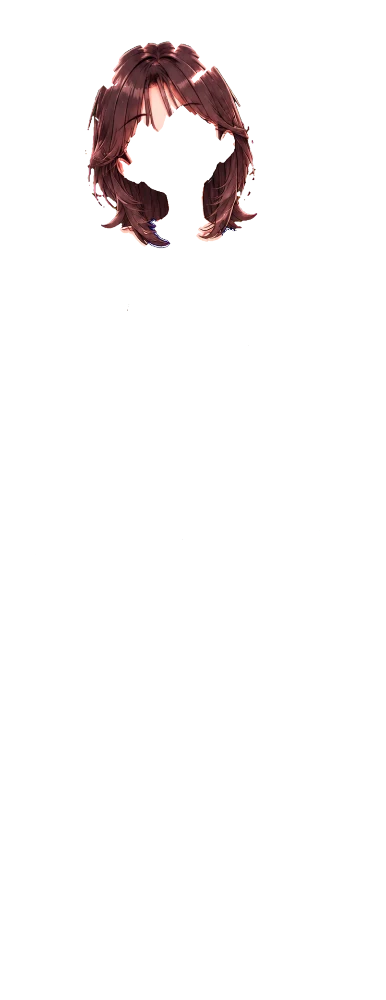
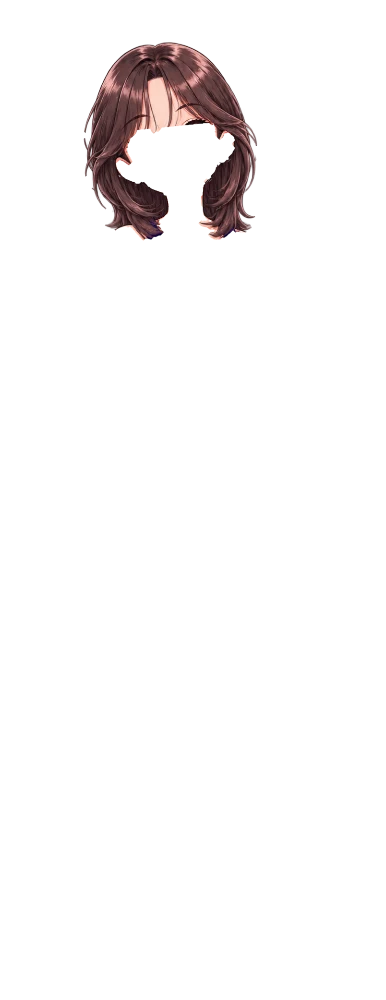
v94: 11 款髮型全部請 GPT 直接畫透明背景重做（不再去綠底，髮絲邊不缺角）；招牌黑長直髮色對齊劇照、長度到腰；麻花辮缺縫修好；穿帽 T 時胸前不再有頭髮碎片

Changed region(s): [[0.2176, 0.031, 0.6839, 0.248]]

diff --git a/sw.js b/sw.js
@@ -1,5 +1,5 @@
 // 離線快取：先用網路，失敗時用快取（內容更新時改版本號）
-const CACHE = 'idolstudy-v93';
+const CACHE = 'idolstudy-v94';
 const FILES = ['./', './index.html', './css/style.css', './css/talk.css', './css/rewards.css', './css/lobby-pastel.css', './css/pastel-pages.css', './css/names.css', './css/v2.css', './css/drama.css', './js/names.js', './js/rewards.js', './js/app.js', './js/data.js', './js/store.js', './manifest.webmanifest', './icons/icon-192.png', './js/course.js', './js/util.js', './js/talk.js', './js/sound.js', './js/drama.js', './js/games.js', './js/course2.js', './js/course3.js', './js/themes.js', './js/extras.js', './js/bank.js', './js/examdata.js', './js/exam.js', './js/npc.js', './js/hangul.js', './js/hangul-art.js', './js/facemap.js', './js/avatar.js', './js/doll-index.js', './js/doll-acc.js', './js/doll-acc-size.js', './js/friends.js', './js/cloud.js', './js/chat.js', './js/chatcards.js', './js/binder.js', './js/eggs.js', './css/exam.css', './css/fx.css', './css/chat.css', './css/me.css', './css/binder.css', './css/home-stage.css', './css/hsing.css', './js/hsing.js', './assets/art/bg-practice.webp', './assets/art/teacher-cut.webp', './assets/art/teacher-face.webp', './assets/art/logo.webp', './assets/art/bn-closet.webp', './assets/art/bn-cards.webp', './assets/art/bn-friends.webp', './assets/art/bn-map.webp', ...['home','wrong','cards','me','mic','speaker','gift','fire','book','chat','star','heart','zh','en','ko','meme','medal','map','trophy'].map((n) => `./assets/art/icons/ui-${n}.webp`)];
 
 self.addEventListener('install', (e) => {
